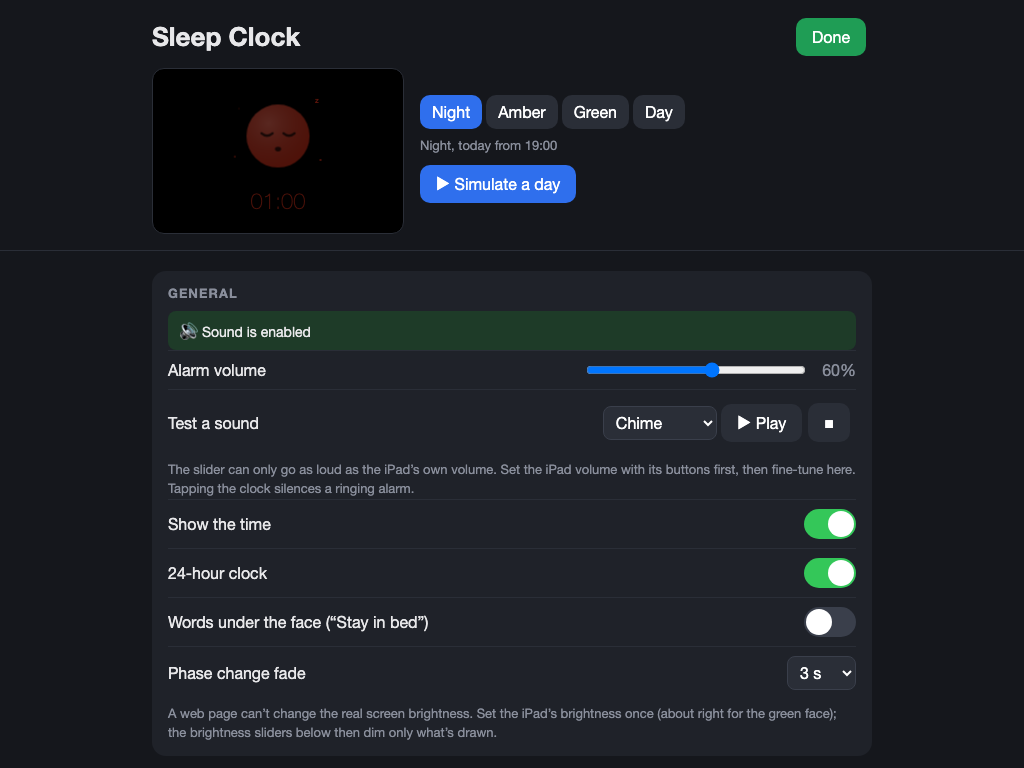
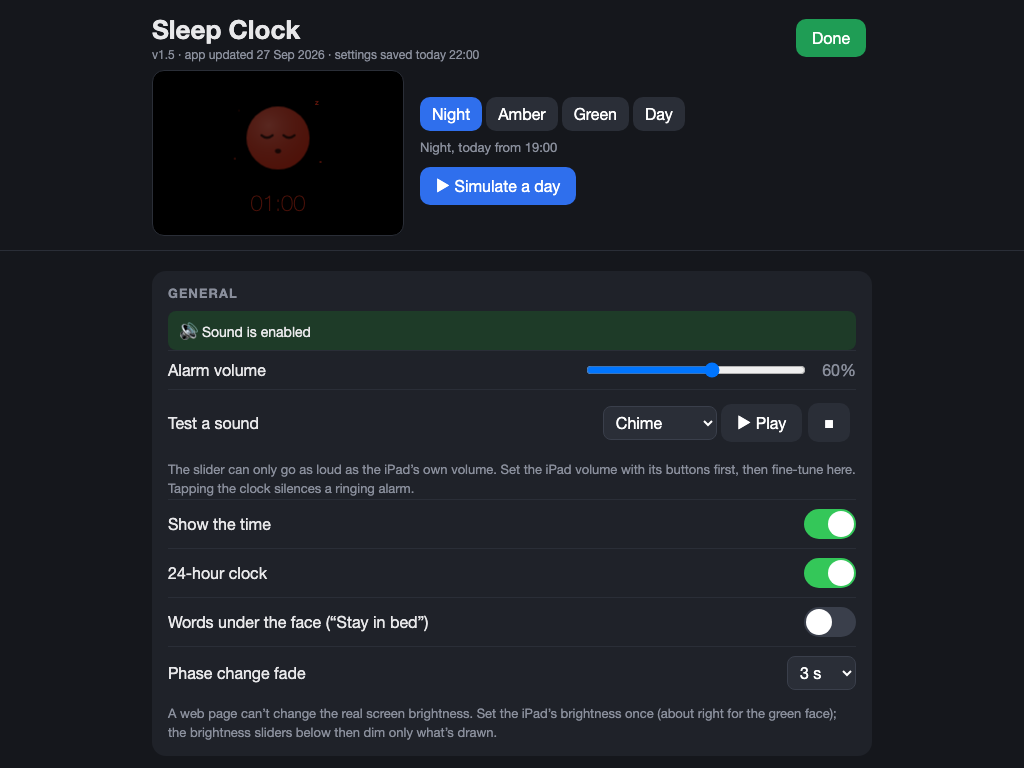
Settings: version, app updated date and settings save time; About & feedback with GitHub links and issue forms (v1.5)

diff --git a/index.html b/index.html
@@ -80,8 +80,8 @@
     border: 1px solid #3a3f4b; border-radius: 8px; padding: 6px 8px; font-family: inherit; }
   input[type=range] { width: 220px; }
   textarea { width: 100%; box-sizing: border-box; height: 80px; font-family: Menlo, monospace; font-size: 12px; }
-  button.b { font-size: 16px; background: #2f6fed; color: #fff; border: 0; border-radius: 10px; padding: 10px 16px; margin: 4px 6px 4px 0; font-family: inherit; }
-  button.b.g { background: #2a2e37; }
+  button.b, a.b { font-size: 16px; background: #2f6fed; color: #fff; border: 0; border-radius: 10px; padding: 10px 16px; margin: 4px 6px 4px 0; font-family: inherit; }
+  button.b.g, a.b.g { background: #2a2e37; }
   button.b.r { background: #b3261e; }
   button.b.ok { background: #1f9d55; }
   table.sched { width: 100%; border-collapse: collapse; }
@@ -100,6 +100,8 @@
   .swc.on { box-shadow: 0 0 0 3px #fff; }
   .sec h2 small { text-transform: none; letter-spacing: 0; font-weight: 400; margin-left: 6px; color: #6b7080; }
   .dot { display: inline-block; width: 10px; height: 10px; border-radius: 50%; margin-right: 8px; vertical-align: 0; }
+  #appinfo { font-size: 12px; color: #8a8f9c; margin-top: 2px; }
+  a.b { display: inline-block; text-decoration: none; }
   .sec h3 { font-size: 12px; text-transform: uppercase; letter-spacing: .06em; color: #8a8f9c; margin: 16px 0 2px; font-weight: 600; }
   .row.sub { padding-left: 18px; }
   .row.sub label.l { color: #b9bdc7; }
@@ -229,7 +231,7 @@
 
 <div id="settings" class="overlay">
   <div id="shead"><div class="hwrap">
-    <div class="topbar"><h1>Sleep Clock</h1><button class="b ok" id="done">Done</button></div>
+    <div class="topbar"><div><h1>Sleep Clock</h1><div id="appinfo"></div></div><button class="b ok" id="done">Done</button></div>
     <div class="pv">
       <div class="miniwrap"><div id="mini" class="mini"><div id="miniFace" class="face"></div><div id="miniBelow" class="below"></div><div id="miniTime" class="time"></div><div id="miniLabel" class="label"></div><div id="miniLayer" class="layer"></div></div></div>
       <div class="pvside">
@@ -887,7 +889,7 @@
   'use strict';
   /* Written for Safari 12: no optional chaining, no ??, no class fields, no replaceAll. */
 
-  var VERSION = '1.4';
+  var VERSION = '1.5';
   var KEY = 'toddler-sleep-train-clock.settings.v1';
   var FIRED_KEY = 'toddler-sleep-train-clock.fired';
   var CODE_PREFIX = 'toddler-sleep-train-clock.v1:';
@@ -1019,6 +1021,7 @@
       dayDim: 100,         // % brightness of face/time in the day
       fadeSec: 3,          // crossfade length at each phase change (0 = hard change)
       night: nightDefaults(), // night scene + extras, see SCENES / EXTRAS
+      savedAt: 0,          // when the settings last changed (ms); 0 = never
       showTime: true,
       showTimeNight: false,
       h24: true,
@@ -1069,11 +1072,18 @@
     if (FADE_OPTS.indexOf(s.fadeSec) < 0) s.fadeSec = 3;
   }
   var storageOK = true;
+  // Settings content without the save time, to tell a real change from a save with nothing new (e.g. closing settings).
+  function settingsBody() { var t = S.savedAt; S.savedAt = 0; var b = JSON.stringify(S); S.savedAt = t; return b; }
+  var lastBody = null;
   function save() {
+    var body = settingsBody();
+    if (body !== lastBody) { S.savedAt = Date.now(); lastBody = body; }
     try { window.localStorage.setItem(KEY, JSON.stringify(S)); storageOK = true; }
     catch (e) { storageOK = false; }
+    if (settingsOpen) renderAppInfo();
   }
   var S = load();
+  lastBody = settingsBody();
 
   // ---------- time helpers ----------
   function hm(str) { var p = str.split(':'); return (+p[0]) * 60 + (+p[1]); }
@@ -1939,6 +1949,28 @@
     toast(ok ? 'SVG copied' : 'SVG selected, tap Copy');
   });
 
+  // ---------- version, app date, settings save time, GitHub links ----------
+  var REPO = 'https://github.com/flevanti/toddler-sleep-train-clock';
+  var MONTHS = ['Jan', 'Feb', 'Mar', 'Apr', 'May', 'Jun', 'Jul', 'Aug', 'Sep', 'Oct', 'Nov', 'Dec'];
+  function fmtDate(d) { return d.getDate() + ' ' + MONTHS[d.getMonth()] + ' ' + d.getFullYear(); }
+  // When this copy of the app was published: the server's Last-Modified date (kept by the offline copy too).
+  // Without that header browsers report "now", so a date within seconds of loading means unknown.
+  var APP_UPDATED = (function () {
+    var d = new Date(document.lastModified);
+    return isNaN(d.getTime()) || Math.abs(Date.now() - d.getTime()) < 10000 ? null : d;
+  })();
+  function versionText() { return 'v' + VERSION + (APP_UPDATED ? ' (updated ' + fmtDate(APP_UPDATED) + ')' : ''); }
+  function renderAppInfo() {
+    var t = 'v' + VERSION + (APP_UPDATED ? ' · app updated ' + fmtDate(APP_UPDATED) : ''), d = new Date(S.savedAt);
+    if (!S.savedAt) t += ' · settings not saved yet';
+    else t += ' · settings saved ' + (fmtDate(d) === fmtDate(new Date()) ? 'today' : fmtDate(d)) + ' ' + fmt(d);
+    $('appinfo').textContent = t;
+  }
+  function issueUrl(template) {
+    return REPO + '/issues/new?template=' + template + '&version=' + encodeURIComponent(versionText()) + '&device=' + encodeURIComponent(navigator.userAgent);
+  }
+  function link(text, href) { return '<a class="b g" href="' + esc(href) + '" target="_blank" rel="noopener">' + text + '</a>'; }
+
   function renderSettings() {
     var today = new Date().getDay();
     var standalone = !!window.navigator.standalone;
@@ -2022,10 +2054,17 @@
       '<li>Set the iPad volume with its buttons, then test the sound under General.</li>' +
       '<li>Open Sleep Clock from the home-screen icon and <b>tap once</b> so sound is enabled.</li>' +
       '<li>Triple-click Home → <b>Guided Access</b>. Under Options, turn off Volume Buttons and Sleep/Wake. Leave Touch on (the clock ignores taps; this lets you re-enable sound after a reload).</li>' +
-      '<li>Keep it on charge, and check the battery for swelling now and then.</li></ol>' +
-      '<p class="hint">Sleep Clock (toddler-sleep-train-clock) v' + VERSION + (standalone ? ' · home-screen mode' : '') + '</p></div>';
+      '<li>Keep it on charge, and check the battery for swelling now and then.</li></ol></div>';
+
+    // about & feedback
+    h += '<div class="sec"><h2>About &amp; feedback</h2>' +
+      '<p class="hint" style="margin-top:0">Sleep Clock ' + versionText() + (standalone ? ' · home-screen mode' : '') + '. Free, no ads, works offline.</p>' +
+      '<div class="links" style="margin-top:8px">' + link('Suggest a feature', issueUrl('feature_request.yml')) + link('Report a problem', issueUrl('bug_report.yml')) +
+      link('Source code on GitHub', REPO) + '</div>' +
+      '<p class="hint">Opens GitHub in the browser (needs internet; suggestions and reports need a free GitHub account). The version and device are filled in for you.</p></div>';
 
     $('swrap').innerHTML = h;
+    renderAppInfo();
     renderAudioStatus();
     wireSettings();
     if (settingsOpen) updatePreview(); // e.g. after import or reset

diff --git a/tests/test_about.py b/tests/test_about.py
@@ -1,0 +1,80 @@
+"""Settings header info (version, app updated date, settings saved time) and the GitHub links / issue forms."""
+import datetime
+import os
+import sys
+import urllib.parse
+
+from playwright.sync_api import sync_playwright
+
+from harness import Checks, H, VIEWPORTS, open_settings, serve
+
+ROOT, SHOTS = sys.argv[1], sys.argv[2]
+REPO = 'https://github.com/flevanti/toddler-sleep-train-clock'
+KEY = 'toddler-sleep-train-clock.settings.v1'
+check = Checks()
+srv, URL = serve(ROOT)
+
+# the local test server sends Last-Modified = index.html's modification time, like GitHub Pages does
+mtime = datetime.datetime.fromtimestamp(os.path.getmtime(os.path.join(ROOT, 'index.html')), datetime.timezone.utc).astimezone()
+updated = '%d %s %d' % (mtime.day, mtime.strftime('%b'), mtime.year)
+
+for name, fields in [('feature_request.yml', ['id: idea', 'id: version', 'id: device']), ('bug_report.yml', ['id: what', 'id: version', 'id: device'])]:
+    path = os.path.join(ROOT, '.github', 'ISSUE_TEMPLATE', name)
+    text = open(path, encoding='utf-8').read() if os.path.exists(path) else ''
+    check('issue form %s has its fields' % name, text.startswith('name:') and all(f in text for f in fields), path)
+
+with sync_playwright() as pw:
+    b = pw.chromium.launch()
+    for vp in VIEWPORTS:
+        tag = '%dx%d ' % vp
+        p = b.new_page(viewport={'width': vp[0], 'height': vp[1]})
+        errs = []
+        p.on('pageerror', lambda e: errs.append(str(e)))
+        p.clock.install(time=datetime.datetime(2026, 9, 23, 12, 0, 0))
+        p.goto(URL)
+        p.evaluate("() => localStorage.clear()")
+        p.reload()
+        p.clock.run_for(300)
+        version = p.evaluate("() => document.documentElement.innerHTML.match(/var VERSION = '([^']+)'/)[1]")
+        open_settings(p, vp)
+
+        info = p.inner_text('#appinfo')
+        check(tag + 'header shows the version', ('v' + version) in info, info)
+        check(tag + 'header shows when the app was published (server date)', ('app updated ' + updated) in info, info)
+        check(tag + 'fresh device: settings not saved yet', 'settings not saved yet' in info, info)
+        box = p.evaluate("() => [document.getElementById('appinfo').getBoundingClientRect().bottom, document.getElementById('mini').getBoundingClientRect().bottom, document.getElementById('shead').getBoundingClientRect().bottom]")
+        check(tag + 'info line fits in the header', box[0] < box[2] and box[1] <= box[2], box)
+
+        p.clock.run_for(60000)  # 12:01
+        p.select_option('#greenMin', '30')
+        info = p.inner_text('#appinfo')
+        check(tag + 'a change is saved with its time', 'settings saved today 12:01' in info, info)
+        saved = p.evaluate("(k) => JSON.parse(localStorage.getItem(k)).savedAt", KEY)
+        check(tag + 'save time stored with the settings', abs(saved - p.evaluate("() => Date.now()")) < 5000, saved)
+        p.click('#done')
+        p.clock.run_for(3600000)  # an hour later: closing and reopening settings is not a change
+        open_settings(p, vp)
+        check(tag + 'opening/closing settings does not count as a change', 'settings saved today 12:01' in p.inner_text('#appinfo'), p.inner_text('#appinfo'))
+        p.click('#expBtn')
+        code = p.input_value('#codeBox')
+        check(tag + 'export includes the save time', '"savedAt":' in p.evaluate("(c) => decodeURIComponent(escape(atob(c.slice(c.indexOf(':') + 1))))", code))
+
+        links = p.evaluate("""() => [].map.call(document.querySelectorAll('#swrap a[target=_blank]'), function (a) { return [a.textContent, a.getAttribute('href'), a.getAttribute('rel')]; })""")
+        hrefs = [l[1] for l in links]
+        check(tag + 'link to the GitHub repo', REPO in hrefs, links)
+        feat = [h for h in hrefs if 'template=feature_request.yml' in h]
+        bug = [h for h in hrefs if 'template=bug_report.yml' in h]
+        check(tag + 'suggest-a-feature link opens the feature form', len(feat) == 1 and feat[0].startswith(REPO + '/issues/new?'), feat)
+        check(tag + 'report-a-problem link opens the bug form', len(bug) == 1 and bug[0].startswith(REPO + '/issues/new?'), bug)
+        q = urllib.parse.parse_qs(urllib.parse.urlparse(bug[0] if bug else '').query)
+        ua = p.evaluate("() => navigator.userAgent")
+        check(tag + 'problem form pre-filled with version and device',
+              q.get('version', [''])[0].startswith('v' + version) and updated in q.get('version', [''])[0] and q.get('device', [''])[0] == ua, q)
+        check(tag + 'links open outside the app safely', all(l[2] == 'noopener' for l in links), links)
+        p.locator('#swrap .sec:has(h2:text-is("About & feedback"))').scroll_into_view_if_needed()
+        p.screenshot(path=os.path.join(SHOTS, 'about_%dx%d.png' % vp))
+        check(tag + 'no page errors', not errs, errs)
+        p.close()
+    b.close()
+srv.shutdown()
+sys.exit(check.finish())

diff --git a/tests/test_regroup.py b/tests/test_regroup.py
@@ -20,6 +20,7 @@ EXPECT = [
   ('Nap', ['napSound']),
   ('Device & safety', ['pinSet', 'expBtn', 'impBtn', 'resetBtn', 'codeBox']),
   ('iPad setup checklist', []),
+  ('About & feedback', []),
 ]
 active = "() => document.querySelector('#pvtabs .b:not(.g)').getAttribute('data-pv')"
 with sync_playwright() as pw:

diff --git a/README.md b/README.md
@@ -87,6 +87,15 @@ Hold the **top-right corner for 2.5 seconds** to open settings. Then set:
 
 Use the preview tabs (Night / Amber / Green / Day) to check how each phase looks, or **Simulate a day** to watch a whole day and night play through quickly.
 
+## Feedback and ideas
+
+Use GitHub Issues. A free GitHub account is needed.
+
+- **[Suggest a feature](https://github.com/flevanti/toddler-sleep-train-clock/issues/new?template=feature_request.yml)**
+- **[Report a problem](https://github.com/flevanti/toddler-sleep-train-clock/issues/new?template=bug_report.yml)**
+
+The same links are at the bottom of the clock's settings page (**About & feedback**). From there, the clock version and the device are filled in for you.
+
 ## Project layout
 
 | Path | What it is |
@@ -97,6 +106,7 @@ Use the preview tabs (Night / Amber / Green / Day) to check how each phase looks
 | `tests/` | Browser tests (Python + Playwright, headless Chromium with a faked clock) and a Safari 12 syntax/feature check. See [`tests/README.md`](tests/README.md). |
 | `artwork/`, `tools/import_artwork.py` | Source SVGs for the Night pictures and the importer that turns them into small templates in `index.html`. See [`artwork/README.md`](artwork/README.md). |
 | `tools/readme_screenshots.py` | Regenerates the screenshots in `docs/screenshots/`. |
+| `.github/ISSUE_TEMPLATE/` | The "Suggest a feature" and "Report a problem" forms on GitHub. |
 | `docs/superpowers/` | Design spec and implementation plan for the night animations. |
 
 Neither `artwork/`, `tools/`, `tests/` nor `docs/` is needed to run the clock.

diff --git a/REQUIREMENTS.md b/REQUIREMENTS.md
@@ -163,6 +163,13 @@ Details:
 - Each phase section has a coloured dot that follows the chosen colour.
 - Phase sections carry `data-pv`, so touching anything inside one (including its heading) switches the mini preview to that phase.
 
+### Version, save time and feedback (v1.5)
+- **The settings header shows three things:**
+  - the version (`VERSION`, bumped by hand for releases with real changes);
+  - **app updated** `<date>`: the server's `Last-Modified` date for `index.html`, read from `document.lastModified`. It needs no build step and still works offline. It's hidden when the server sends no date (browsers then report the load time);
+  - **settings saved** `<when>`: the time settings last actually changed (`S.savedAt`). Saving with nothing new, e.g. closing settings, doesn't count. The value is included in export/import.
+- **The About & feedback section** links to the GitHub repo and to two GitHub issue forms (`.github/ISSUE_TEMPLATE/`: feature request and bug report). The forms are pre-filled with the version and the device's user agent. The links open in the browser with `rel="noopener"`, need internet, and need a GitHub account to submit.
+
 ### Settings access and PIN
 - A **hidden gesture** opens settings: hold the top-right corner (110×110 px) for **2.5 seconds**. A progress ring fills while you hold.
 - Apart from that, taps on the clock only unlock sound or stop the alarm. Scrolling and pinch-zoom are blocked.

diff --git a/tests/README.md b/tests/README.md
@@ -32,6 +32,7 @@ Each file can also be run on its own: `.venv/bin/python tests/test_sim.py . test
 | `test_night_render.py` | night timing (since/frac), per-area redraw, ids, dimming, fade, every scene |
 | `test_night_ui.py` | night animation controls built from the registry |
 | `test_night_extras.py` | star countdown, fireflies, shooting stars, in the simulation too |
+| `test_about.py` | settings header (version, app date, save time), GitHub links and issue forms |
 | `test_animal_drawings.py` | every animal template in index.html: safety, Safari 12, format, size, fits the canvas, breathes and twitches |
 | `test_night_gallery.py` | the "See all" carousel for scenes and animals: opens, big cards, choose / close |
 | `test_night_animals.py` | the 14 sleeping animals, plus `animals_sheet.png` for a visual review |
